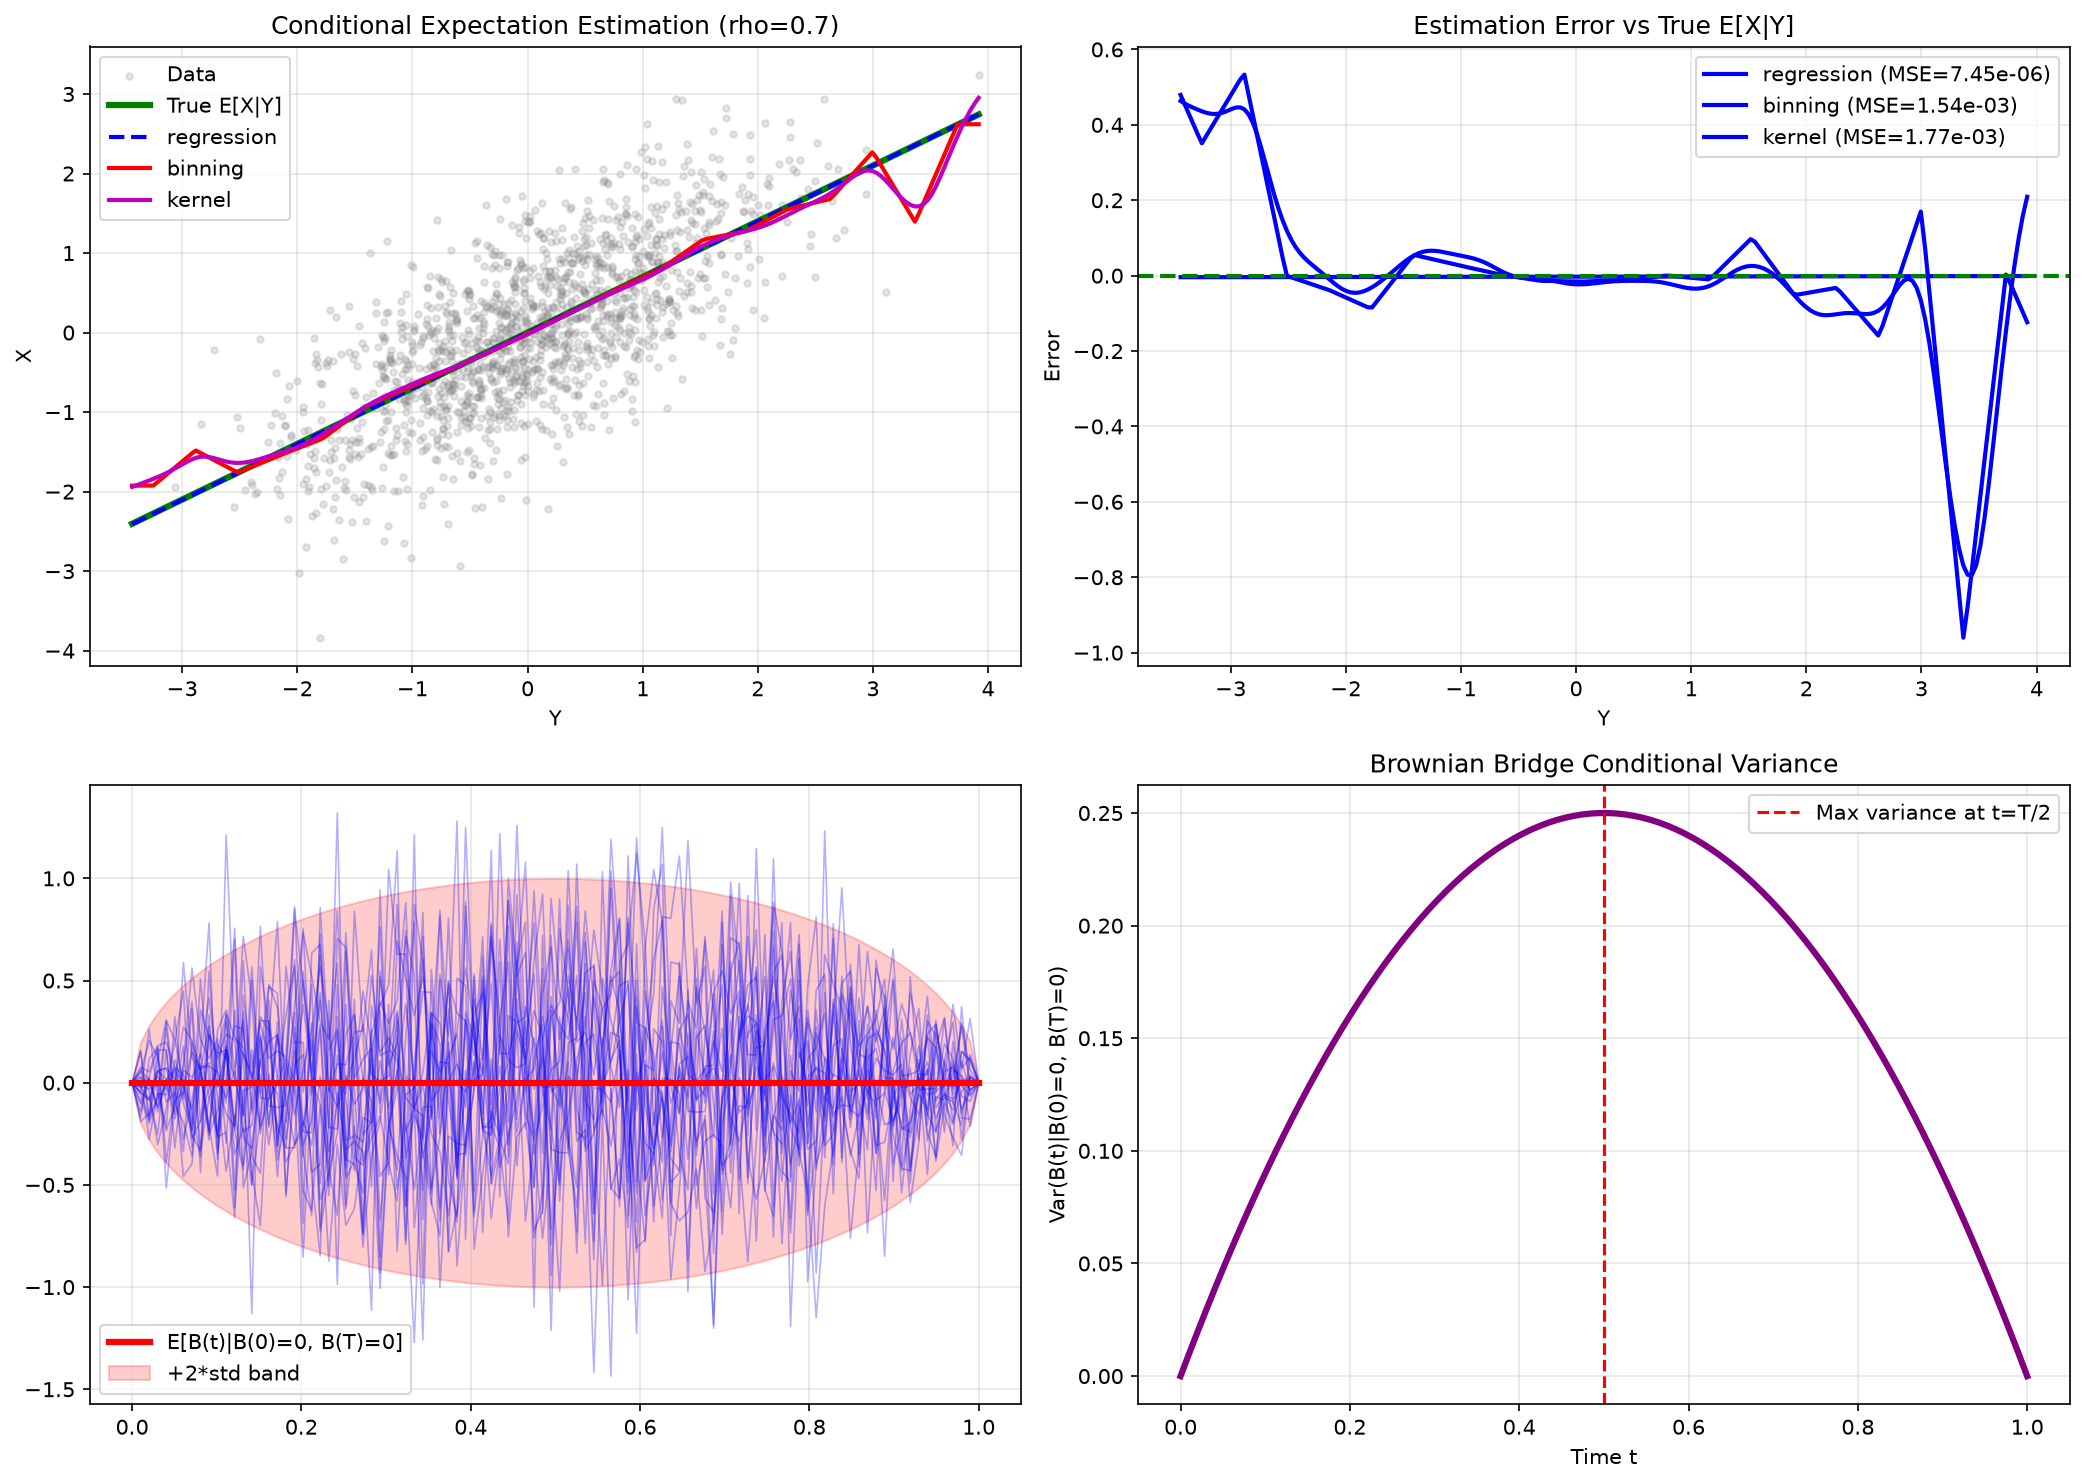
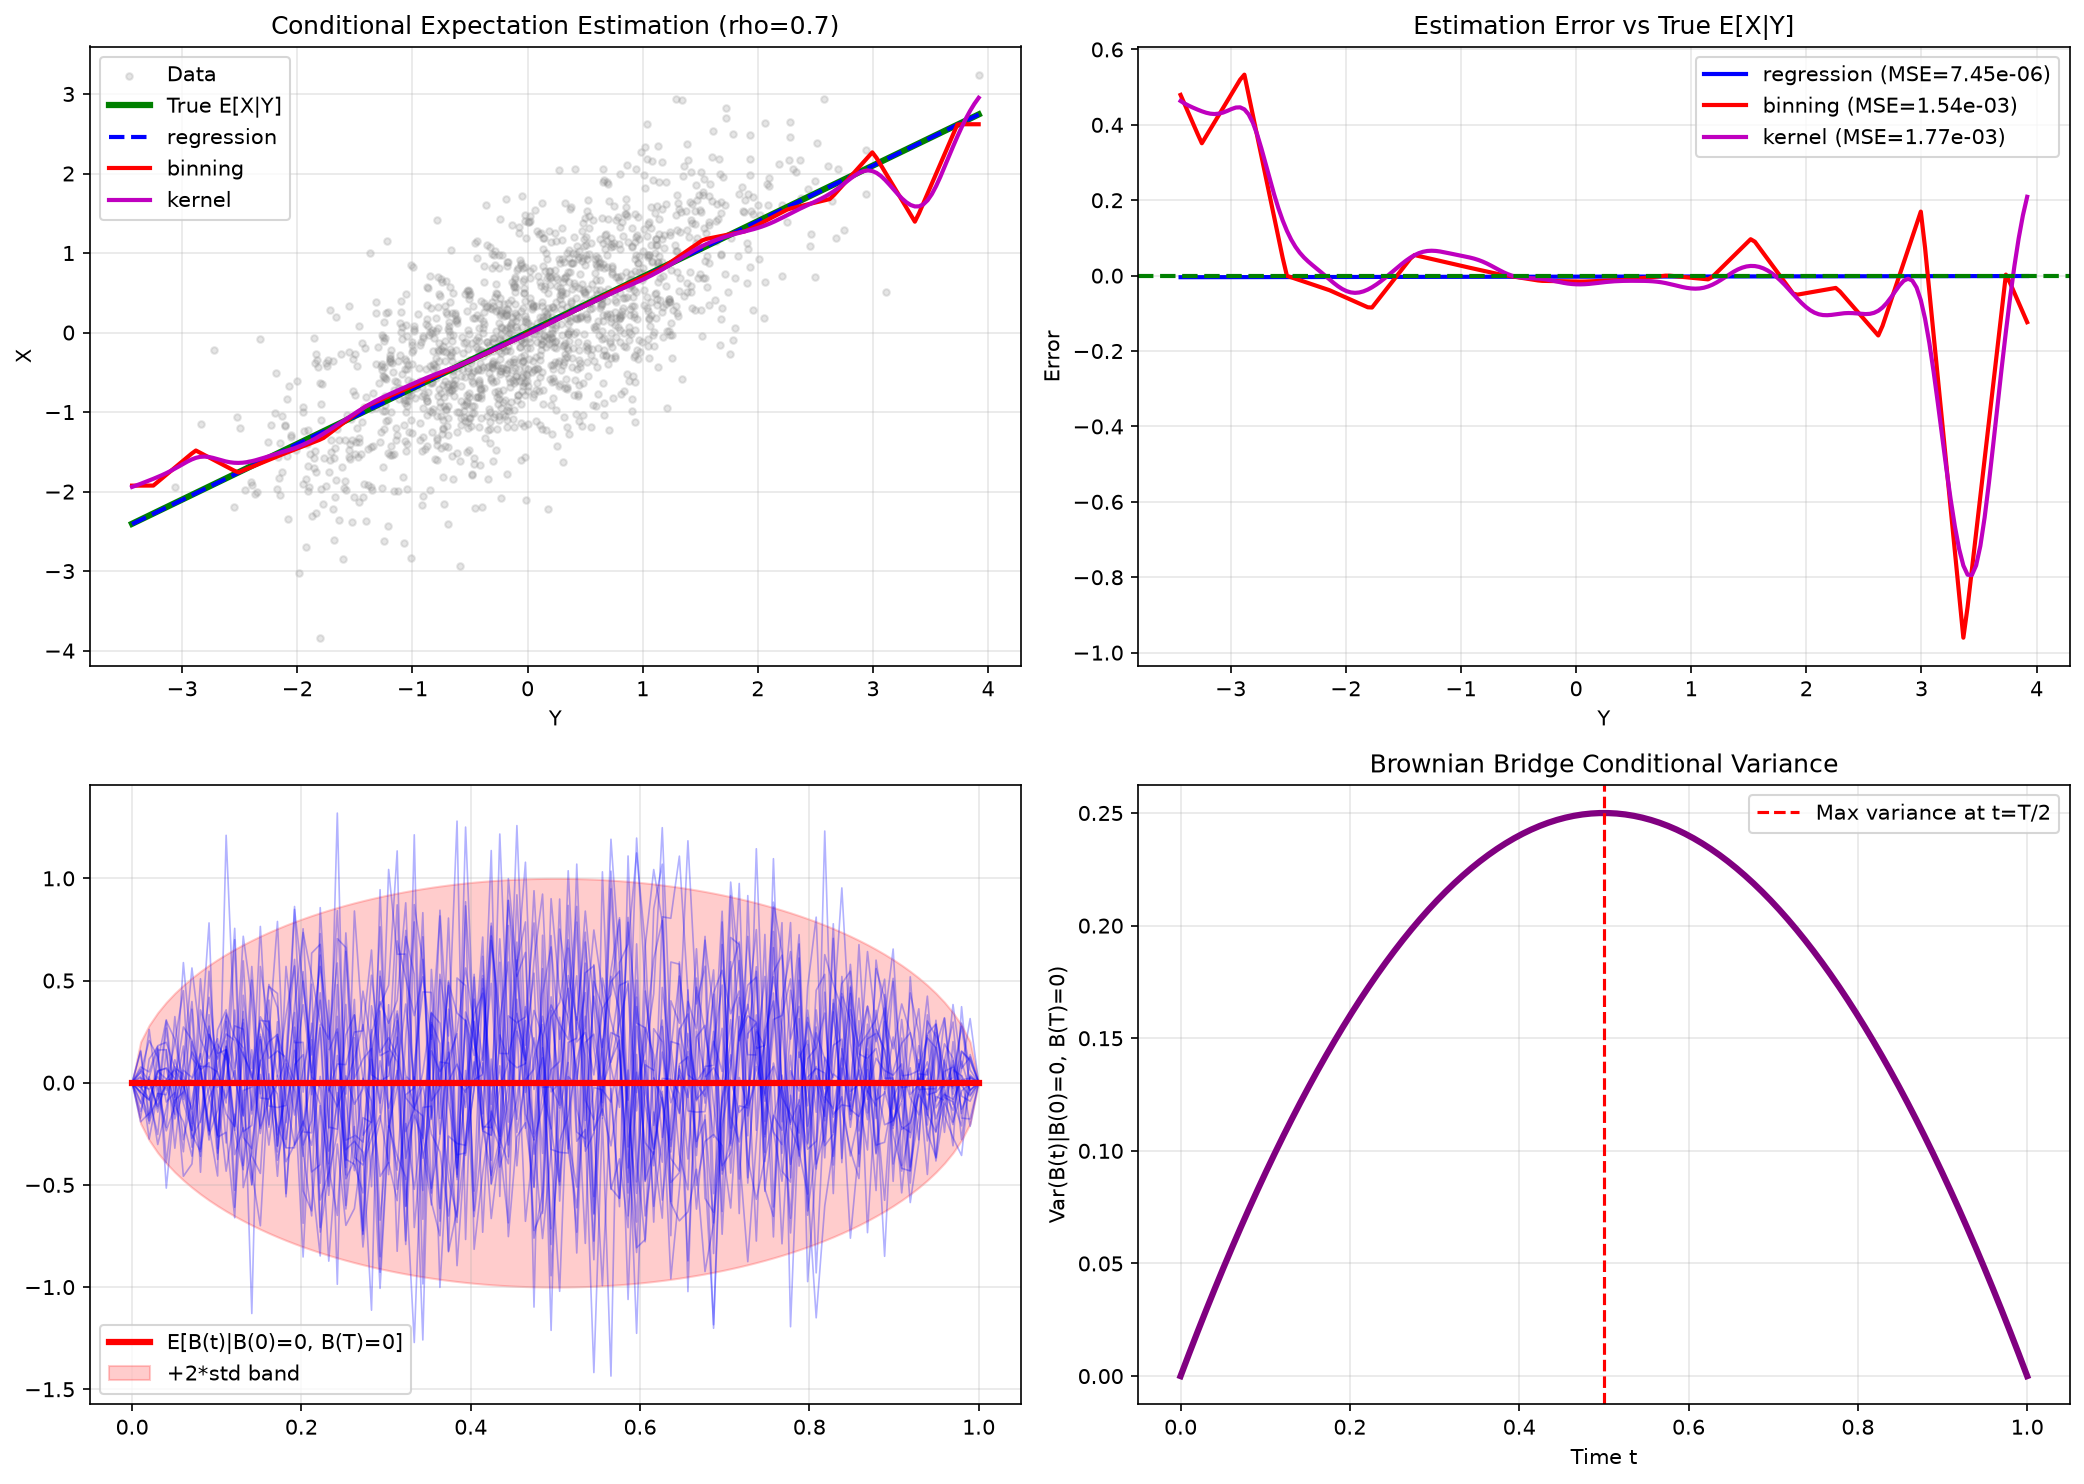
Update conditional expectation figure

diff --git a/src/brownian_lab/conditional_expectation_intro.py b/src/brownian_lab/conditional_expectation_intro.py
@@ -277,8 +277,8 @@ def demonstrate_conditional_expectation(n_samples:int=5000, rho:float=0.7, n_bin
     # plot 2: Estimation errors
     ax2 = axes[0,1]
     ax2.plot(y_grid, pred_regression-pred_true, 'b-', lw=2, label=f'regression (MSE={mse_regression:.2e})')
-    ax2.plot(y_grid, pred_binning-pred_true, 'b-', lw=2, label=f'binning (MSE={mse_binning:.2e})')
-    ax2.plot(y_grid, pred_kernel-pred_true, 'b-', lw=2, label=f'kernel (MSE={mse_kernel:.2e})')
+    ax2.plot(y_grid, pred_binning-pred_true, 'r-', lw=2, label=f'binning (MSE={mse_binning:.2e})')
+    ax2.plot(y_grid, pred_kernel-pred_true, 'm-', lw=2, label=f'kernel (MSE={mse_kernel:.2e})')
     ax2.axhline(y=0, color='green', linestyle='--', lw=2)
     ax2.set_xlabel('Y')
     ax2.set_ylabel('Error')
